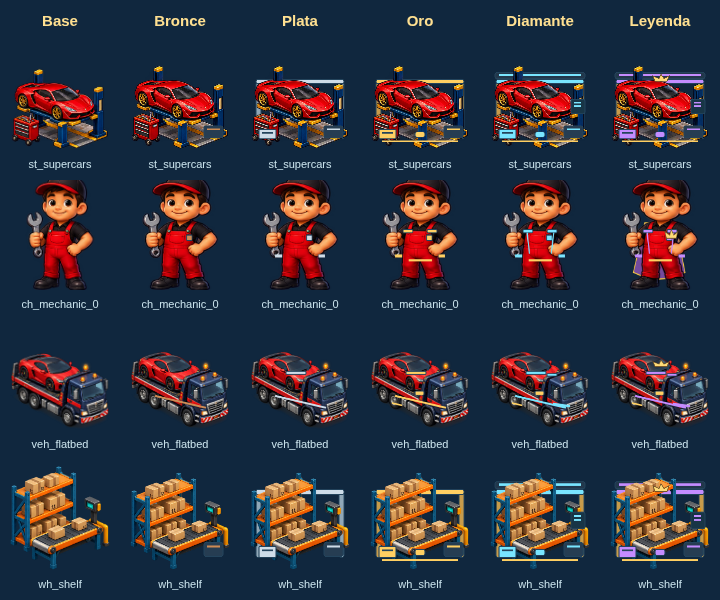
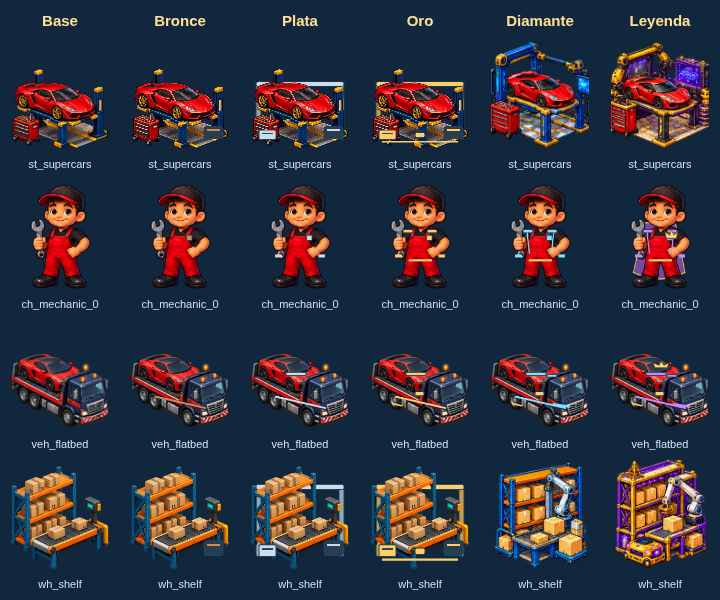
docs: close remaining art tasks and refresh visual and store review

diff --git a/docs/ART.md b/docs/ART.md
@@ -122,26 +122,26 @@ Mismo estilo común, con luz de playa soleada. Para la arena y las palmeras, añ
 
 ### Mecánicas de cada negocio (Madrid)
 
-Hoy son una tarjeta HTML con emojis encima de la barra de la cadena (`.tw-card` en `styles.css`, `src/ui/twistUi.ts`). Ideas para que luzcan en la escena: una furgoneta de «pedido urgente» con un reloj, un **crítico** con monóculo y libreta que se sienta en una mesa del restaurante (`ch_critic_0`, 44×60), un **cartel de «EN DIRECTO»** rojo que parpadea sobre el estudio de TikTok durante el directo viral y una pantalla de datos 🧠 en la agencia de IA. Iconos para la tarjeta: `ic_order`, `ic_critic`, `ic_hype`, `ic_research` (48×48).
+Las tarjetas usan el kit de iconos local. `TwistWorld` refleja las mecánicas existentes dentro del recinto con `veh_order`, `ch_critic_0`, `prop_broadcast` y `prop_research`: llegada/salida, rótulo y progreso. Es una proyección de solo lectura; las acciones siguen en las tarjetas. Tamaños e integración en «Ampliación final».
 
 ### «Mi vida»: personaje y objetos de lujo
 
-Hoy el personaje es un SVG sencillo (`src/ui/avatar.ts`) y los objetos son emojis. Para el arte propio, basta con añadir los PNG (y apuntarlos en `public/sprites/manifest.json`):
+El personaje y todos los objetos tienen arte propio de atlas. `src/ui/avatar.ts` conserva el SVG únicamente como respaldo y superpone la joya seleccionada sobre el avatar. Los PNG individuales del manifest siguen teniendo prioridad:
 
 | Clave | Tamaño | Qué es |
 | --- | --- | --- |
-| `avatar_<ropa>` | 240×344 (se ve a 120×172) | El personaje de cuerpo entero con cada ropa: `tracksuit` (chándal verde de rider con gorra), `hoodie`, `suit`, `designer` (traje granate con gafas de sol), `goldtux` (esmoquin negro con solapas doradas), `neonsuit` (exclusivo, rosa y cian con brillo). Mismo personaje y pose en todos, de frente, fondo transparente. Las joyas hoy se dibujan encima del SVG; con PNG, mejor una versión por joya más adelante |
+| `avatar_<ropa>` | 340×504 (se ve a 120×172) | El personaje de cuerpo entero con cada ropa: `tracksuit` (chándal verde de rider con gorra), `hoodie`, `suit`, `designer` (traje granate con gafas de sol), `goldtux` (esmoquin negro con solapas doradas), `neonsuit` (exclusivo, rosa y cian con brillo). Mismo personaje y pose en todos, de frente, fondo transparente. Las joyas se superponen sobre el avatar integrado |
 | `lux_<id>` | 96×96 | Icono de cada objeto (ids en `src/game/luxury.ts`): ropa, joyas, coches, casas, mascotas, yate, jet y cohete. Los de casa también se ven grandes de fondo (hasta 150×150): mejor como edificio con algo de suelo |
-| `luxcar_<id>` | 50×42 | El coche del personaje visto en isométrico para circular por la ciudad (como `car_0`). Hoy es su emoji con un halo dorado |
-| `ic_life` | 48×48 | Icono del botón «Mi vida» (hoy 🛍) |
+| `luxcar_<id>` | 50×42 | El coche del personaje visto en isométrico para circular por la ciudad (como `car_0`). Arte del vehículo seleccionado, con sombra y halo dorado |
+| `ic_life` | 48×48 | Icono vectorial local del botón «Mi vida» |
 
-**Halloween:** iconos `lux_vampire`, `lux_skullring`, `lux_hearse`, `lux_haunted`, `lux_pumpkin`, el personaje `avatar_vampire` (traje negro, capa roja, colmillos), `luxcar_hearse` y la calabaza `pumpkin` (40×40) para las plazas de la ciudad (hoy son emojis). Un fantasma `ghost` (64×64) para el botón flotante sería un buen extra.
+**Halloween integrado:** `lux_vampire`, `lux_skullring`, `lux_hearse`, `lux_haunted`, `lux_pumpkin`, `avatar_vampire`, `luxcar_hearse`, `pumpkin` y `ghost`. Véase el catálogo de familias entregadas.
 
 Ideas: que el fondo del escenario cambie con la casa (piso compartido, ático con vistas, villa con piscina, mansión, isla) y que los exclusivos tengan un brillo propio.
 
 ### Rangos de los puestos (bronce … leyenda)
 
-Cada parte de la cadena sube de rango en los niveles 10, 25, 50, 100 y 200 (`src/game/ranks.ts`). Hoy el rango se ve con efectos hechos por código (pedestal y brillo del color, medalla y destellos, en `src/scenes/rankFx.ts`). Para que además **el puesto, el trabajador y el vehículo cambien de aspecto**, basta con añadir PNG con estas claves (y apuntarlas en `public/sprites/manifest.json`). Si falta la de un rango, se usa la del rango anterior; si no hay ninguna, la normal. Mismo tamaño que la pieza base.
+Cada parte de la cadena sube de rango en los niveles 10, 25, 50, 100 y 200 (`src/game/ranks.ts`). Tiene medalla, pedestal y efectos existentes, más cambios estructurales compuestos sobre la pieza original. Los puestos Diamante/Leyenda de los 14 negocios tienen dibujos propios en `stations-premium.png`; los personajes y vehículos conservan sus poses y reciben detalles por composición. Un PNG individual puede sustituir cualquiera de estas variantes.
 
 | Clave | Qué es | Idea para el prompt |
 | --- | --- | --- |
@@ -152,11 +152,11 @@ Cada parte de la cadena sube de rango en los niveles 10, 25, 50, 100 y 200 (`src
 | `veh_forklift_r<n>`, `veh_van_r<n>` | Vehículos (fuera del almacén, que usa poses propias) | Same vehicle: new paint → chrome → gold livery → glowing diamond edition → legendary limousine-like |
 | `decor_<negocio>_2`, `decor_<negocio>_3` | Decoración extra del recinto con ★★ y ★★★ (se pone junto al edificio principal) | Small isometric props cluster on a transparent background: fountain, statue, neon sign… matching the business |
 
-Prioridad recomendada: medallas `rank_*` → puestos `st_*_r3` (oro) y `_r5` (leyenda) de los negocios iniciales (almacén, restaurante, food trucks) → personajes → vehículos.
+Medallas, puestos, personajes y vehículos están integrados; las claves de la tabla permiten sustituir cualquier variante sin cambiar la simulación.
 
 ### Dubái (tercera ciudad)
 
-Mismo estilo común, con luz cálida de desierto y toques dorados. Añade "Dubai luxury, desert sand, gold accents, glass towers" al prompt. **Ahora mismo Dubái usa arte provisional**: cada edificio toma la forma de uno existente (`BLD_SHAPE` en `src/art/catalog.ts`) y los puestos y personajes reutilizan los de Madrid y Miami (`BIZ_ART`). En cuanto exista el PNG de una clave, el juego lo usa sin tocar código. Cuando estén los edificios, borra `BLD_SHAPE`.
+Dubái está integrado con arte propio, luz cálida de desierto, arena, cristal y detalles dorados. `BLD_SHAPE` se eliminó; `BIZ_ART` y `LOOKS` registran los puestos y personajes propios. Los seis trabajadores tienen tres frames reales de 132×180 y apoyo común.
 
 | Clave | Tamaño lógico | Prompt |
 | --- | --- | --- |
@@ -183,63 +183,19 @@ Mismo estilo común, con luz cálida de desierto y toques dorados. Añade "Dubai
 | `ch_builder_0` | 44×60 | Chibi construction worker, orange vest, white helmet |
 | `exec_founder` | 64×64 | Portrait of a confident founder executive in a white suit with a gold pin, golden glowing frame, Dubai skyline behind (exclusive, must look special) |
 
-Para usar los puestos, objetos y personajes nuevos, cambia la línea del negocio en `BIZ_ART` (`src/art/catalog.ts`) y añade los personajes a `LOOKS`. El retrato `exec_founder` se usa solo con guardarlo (`execFace` en `src/ui/icons.ts`). Ideas de ambiente: la fuente de las plazas ya encaja con Dubái; faltan dunas al fondo, skyline y un brillo dorado en la barra del oro (`.wave.gold` en `styles.css`).
+Los puestos, productos, personajes y vehículos se resuelven mediante `BIZ_ART`; `execFace` utiliza `exec_founder`. El entorno incluye dunas, skyline, palmeras datileras, farolas doradas, pavimento propio y decoración específica de cada negocio. La barra del oro mantiene su estilo dorado.
 
-## Plan de mejora gráfica (para ChatGPT)
+## Estado del plan de mejora gráfica
 
-Revisión del juego actual, ordenada por impacto: lo que más se nota en pantalla va primero.
+El plan original está integrado: edificios y evoluciones de las tres ciudades, puestos y productos propios, personajes y movimiento, iconos de UI, moneda neutral, visitantes físicos, Halloween, Mi vida, rangos y marca. La ampliación final añade ciclos de Dubái, decoración específica de los 14 negocios, mecánicas físicas, puestos de alto rango personalizados y vegetación/mobiliario/pavimentos.
 
-### 1. Edificios de la ciudad (máximo impacto)
-Es lo primero que ve el jugador y lo que más "vende" en las capturas de la tienda. Hoy son cajas isométricas dibujadas por código, con un emoji encima en un recuadro blanco.
-- Genera los 9 `bld_*` y `bld_soon` con las tablas de arriba.
-- **Sin emoji encima:** el edificio tiene que reconocerse solo por su forma (un cartel de pasta, un aro de luz…). Ya hay PNG de Madrid; el recuadro del emoji solo sale con el arte por código.
-- ✅ **Enganche listo:** 3 versiones por edificio según sus puestos (`bld_x`, `bld_x_2`, `bld_x_3`; ver más abajo). Por ejemplo, un almacén pequeño que se vuelve nave logística y luego centro de distribución con camiones. Es la recompensa visual más fuerte de un tycoon: ver crecer lo que compras.
+Los efectos de dinero, hitos, noche, mar y celebraciones conservan la implementación existente. La carretera, geometría de parcelas, bordes y skyline siguen dibujándose por código: son geometría funcional, no assets provisionales que haya que duplicar en texturas.
 
-### 2. Suelo de la ciudad y del recinto
-El suelo son rombos de color plano: carreteras, césped, aceras y arena. Se ve vacío.
-- ✅ **Enganche listo** (ver más abajo): baldosas isométricas 88×44 (`tile_madrid_ground`, `tile_miami_ground`, carreteras, solares y suelo de cada recinto), con hasta 4 variantes por clave para que no se note la repetición.
-- El borde de tierra de la isla (`island_edge`) y el agua animada del mar.
-
-### 3. Personajes
-Son chibis sencillos y solo tienen 2 poses al caminar.
-- Haz primero `ch_*_0` de los 25 personajes, con el mismo prompt base para que tengan la misma cara y proporciones.
-- Después, las poses de caminar `_1` y `_2`.
-- Para Miami, los coches (`car_*`) también podrían ser descapotables o tener colores pastel.
-
-### 4. Puestos y objetos del recinto
-Son los 9 `st_*` y los 9 `item_*`. Se ven de cerca y mucho rato, así que merecen más detalle que los edificios.
-
-### 5. Iconos de la interfaz (hoy son emojis)
-Los emojis cambian según el móvil (Apple, Samsung, Google), se ven poco profesionales y no siguen el estilo del juego.
-- ✅ **Enganche listo** (ver más abajo): iconos PNG de 64×64. Por prioridad:
-  - dinero `ic_cash`, diamante `ic_gem`, estrella de franquicia `ic_star`;
-  - botones laterales: misiones, diario, ejecutivos, logros y ajustes (`ic_missions`, `ic_daily`, `ic_execs`, `ic_trophy`, `ic_settings`);
-  - barra inferior: ciudad, bolsa y mundo (`ic_city`, `ic_ipo`, `ic_world`);
-  - un icono por negocio (`ic_biz_<id>`), uno por estilo de vida (`ic_life_0` a `ic_life_9`) y uno por mejora de la Oficina central (`ic_office_<id>`);
-  - maletines: normal, oro y gratis (`chest_normal`, `chest_premium`, `chest_free`);
-  - banderas de ciudad (`flag_madrid`, `flag_miami`).
-- ✅ **Retratos de ejecutivos** (hoy son emojis): 8 caras de 96×96 (`exec_0` a `exec_7`). Sin marco: el juego ya pone el borde del color de la rareza.
-
-### 6. Interfaz (marcos y botones)
-Los paneles son rectángulos azul marino, limpios pero genéricos.
-- Pide a ChatGPT un **kit de interfaz** en el mismo estilo: marco de panel, botón dorado, botón verde de anuncio (con el icono ▶ de vídeo), barra de progreso y cabecera del dinero.
-- Se pueden aplicar como imágenes de fondo con CSS (`border-image`) sin tocar la lógica.
-
-### 7. Efectos y ambiente
-Todo esto es código más que sprites. ChatGPT solo tendría que dibujar la pieza:
-- monedas que vuelan hasta el contador al cobrar;
-- ciclo de día y noche con farolas y ventanas encendidas;
-- olas animadas, barcos y gaviotas en el mar;
-- banderines y destellos dorados cuando un negocio crece;
-- confeti y rayos de las celebraciones con sprites propios.
-
-### 8. Tienda y marca (antes de publicar)
-- Icono de la app (1024×1024), pantalla de carga (splash) y logotipo "Rider Millionaire".
-- 5 capturas para la tienda con textos grandes; se pueden montar sobre capturas reales del juego.
+La lista pendiente es de **validación de lanzamiento**, no de creación de estos assets: comprobar APK/recursos Android, rendimiento y lectura en un móvil físico de gama media y revisión de la ficha en Play Console.
 
 ### Enganches ya preparados en el código
 
-Estas piezas ya se pueden sustituir por PNG igual que el resto: se dejan en `public/sprites/` y se añaden a `manifest.json`. Mientras no exista el PNG, el juego sigue con el emoji o el dibujo por código.
+Estas piezas ya se pueden sustituir por PNG igual que el resto: se dejan en `public/sprites/` y se añaden a `manifest.json`. Si falta una pieza, el juego utiliza el atlas o respaldo vectorial/procedural correspondiente.
 
 **Edificios (`bld_*`):** al cargar se recorta solo el margen transparente y se escalan para que la base ocupe la parcela. No hace falta encuadrarlos con precisión, solo que la base (el rombo de suelo) sea lo más ancho del dibujo.
 
@@ -604,7 +560,7 @@ Esta sección describe el arte integrado y sustituye las descripciones históric
 | `bld_{supercars,hotel,safari,souk,tower}_{1,2,3}` | Ancho 172; alturas base 164/260/140/170/300, +24 por evolución; ajustadas a parcela 2:1 | `dubai-buildings.png`, 1536×1024. Quince edificios propios: concesionario, hotel, safari, zoco y torre. Piedra clara, arena, cristal cian, acentos dorados; luz superior izquierda |
 | `st_{supercars,hotel,safari,souk,tower}` | 100×86 | `dubai-details.png`, 1448×1086. Taller, suite, tienda beduina, banco de joyero y estructura de obra |
 | `item_{carkey,bell,camel,ring,beam}` | 26×26 | Mismo atlas: objetos de producción propios |
-| `ch_{mechanic,valet,butler,guide,goldsmith,builder}_0` | 44×60 | Mismo atlas: roles propios. Las poses de desplazamiento reutilizan el frame quieto, como admite el contrato existente; no son ciclos nuevos de tres dibujos |
+| `ch_{mechanic,valet,butler,guide,goldsmith,builder}_0` | 44×60 | Mismo atlas: roles propios. Las tres poses reales tienen PNG individuales que prevalecen sobre este frame de referencia; véase la ampliación final |
 | `avatar_{tracksuit,hoodie,suit,designer,goldtux,neonsuit,vampire,founder}` | Recorte uniforme 340×504; mostrado a 120×172 | `avatars.png`, 1536×1024. Misma cara, pose y proporciones; siete vestuarios y fundador. Las joyas seleccionadas se superponen en HTML |
 | `exec_founder` | 64×64 | Retrato recortado del fundador en `avatars.png`; marco por rareza existente |
 | `lux_{digital,luxwatch,goldchain,diamondring,crown,deliverybike,scooter,motorbike,sportscar,supercar,limo,goldcar,parents,flat,penthouse,villa,mansion,island,hearse,haunted}` | Iconos de tarjeta 76×76; viviendas también en el escenario de Mi vida | `luxury.png`, 1536×1024. Relojes, joyas, vehículos y casas originales, estilo juguete 3D |
@@ -615,9 +571,9 @@ Esta sección describe el arte integrado y sustituye las descripciones históric
 | `veh_supply`, `ch_vip_0` | 96×78 / 48×68 | Mismo atlas. Visitantes físicos con entrada, halo, sombra, interacción y salida; objetivo HTML accesible de 44 px sigue su posición. No cambia ninguna oferta ni recompensa |
 | `veh_safari`, `veh_crane`, `veh_luggage`, `veh_flatbed`, `veh_goldvan` | 62×48, 68×60 y 68×54 | `vehicles.png`, 1774×887. Vehículos exclusivos de Dubái |
 | `car_miami_0`, `car_miami_1`, `dubai_lamp` | 44×34 / 22×60 | Mismo atlas. Tráfico pastel de Miami y farolas de Dubái |
-| `dubai_planter`, `miami_plaza`, `decor_<negocio>_{2,3}` | 58×76, 66×80 | Atlas extras: jardineras doradas y decoración costera; alias por ciudad para recintos. Dunas y skyline de Dubái son geometría agrupada, no otra textura grande |
+| `dubai_planter`, `miami_plaza`, `decor_<negocio>_{2,3}` | 58×76, 66×80 | Atlas extras: jardineras doradas y decoración costera; los alias iniciales de recintos se sustituyeron por 28 decoraciones propias en `business-decor.png`. Dunas y skyline de Dubái son geometría agrupada, no otra textura grande |
 | `rank_1`…`rank_5` | 24×24; PNG 96×96 + SVG | `public/sprites/`. Bronce, plata, oro, diamante y leyenda, pictogramas propios sin letras |
-| `<pieza>_r1`…`_r5`, `ch_<rol>_r<n>_<pose>` | Igual a base; textura ≤300×258 | `src/art/rankArt.ts`. Composición diferida sobre el arte real: herramientas, soportes, marquesinas, terminales, herrajes, insignias y uniformes. No es un recoloreado global ni cientos de PNG independientes. Incluye las poses propias del almacén y restaurante. Un PNG específico puede sustituirla |
+| `<pieza>_r1`…`_r5`, `ch_<rol>_r<n>_<pose>` | Igual a base; textura ≤300×258 | `src/art/rankArt.ts`. Composición diferida sobre el arte real: herramientas, soportes, marquesinas, terminales, herrajes, insignias y uniformes. No es un recoloreado global ni cientos de PNG independientes. Incluye las poses propias del almacén y restaurante. Los puestos r4/r5 se sustituyen con el atlas premium; un PNG específico conserva prioridad |
 | `coin`, `ic_wheel`, `ic_hand`, `ic_manager`, `ic_construction` | 20×20, 48×48, 26×28, 18×18, 32×24 | SVG original y PNG 96×96 en `public/sprites/`; moneda con estrella neutral. Los importes siguen usando €/$ mediante `money()` |
 | UI: categorías, ciudades, banderas, oficina, misiones, eventos, rival, invitaciones, nube y controles | Canvas vectorial 48×48; inline 1 em | `src/ui/visualIcons.ts` y `icons.ts`; conserva gemas, cofres y ejecutivos PNG existentes. Iconos de negocio usan sus edificios. Sustituye glifos decorativos en etiquetas traducidas sin cambiar cifras ni nombres escritos por jugadores |
 
@@ -651,6 +607,46 @@ python scripts/register-visual-atlases.py       # Pillow, NumPy y SciPy
 python scripts/build-brand.py                  # fontTools con soporte Brotli
 ```
 
+Para renovar solo las capturas comerciales sin repetir la suite: `VISUAL_OUTPUT=artifacts/store npm run capture:visuals -- --store-only`, seguido de `npm run brand:store`.
+
 Los exportadores de navegador requieren Chromium instalado (`CHROMIUM_PATH`). Los scripts Python son herramientas opcionales de edición; el juego consume los archivos entregados y no los necesita. `artifacts/` está ignorado. Comparación reproducible en `docs/visual-review/`: antes de esta rama, commit `8b0f8a2`, y después, misma partida preparada, idioma y resolución.
 
-Verificaciones: 217 tests y build de producción correctos; cobertura de todas las claves de lujo y Dubái, límites reales de los atlas, 110 comprobaciones de navegador, compra/equipamiento, visitantes, rangos, ausencia de desbordamientos y errores JS, y movimiento reducido. Se conserva Madrid y sus tres frames de caminar originales 132×180 con el mismo apoyo. Se mantienen los efectos de monedas, rangos, colecciones y celebraciones existentes. La prueba en móvil físico de gama media y la revisión nativa siguen siendo necesarias antes de publicar: Chromium con renderizado software no permite certificar esos resultados.
+Verificaciones: 221 tests y build de producción correctos; cobertura de todas las claves de lujo y Dubái, límites reales de los atlas, 122 comprobaciones de navegador, compra/equipamiento, visitantes, rangos, ausencia de desbordamientos y errores JS, y movimiento reducido. Se conserva Madrid y sus tres frames de caminar originales 132×180 con el mismo apoyo. Se mantienen los efectos de monedas, rangos, colecciones y celebraciones existentes. La prueba en móvil físico de gama media y la revisión nativa siguen siendo necesarias antes de publicar: Chromium con renderizado software no permite certificar esos resultados.
+
+## Ampliación final — animación, entorno y mecánicas
+
+La revisión posterior completa las cinco mejoras acordadas. Se añaden **18 PNG de animación** y **74 frames registrados en tres atlas** (algunos sustituyen claves existentes), manteniendo el resto del arte. Sin modificaciones en `src/game/*`.
+
+| Familia y claves | Tamaño lógico / fuente | Uso e integración |
+| --- | --- | --- |
+| `ch_{mechanic,valet,butler,guide,goldsmith,builder}_{0,1,2}` | 44×60; cada PNG 132×180 | Tres poses reales: quieto, paso izquierdo y paso derecho. Lienzo y apoyo comunes; cuerpo dentro de y=8…177. `public/sprites/ch_*.png` y manifest; prevalecen sobre los alias del atlas anterior. Se conservan uniformes y herramientas en la misma mano |
+| `decor_<negocio>_{2,3}` para los 14 negocios | 66×80, ajustado a proporción; `business-decor.png`, 1659×948 | 28 clusters propios: logística, terraza, grabación, hologramas, picnic, surf, marina, piscina, terminales cripto, exposición de coches, fuente, safari, joyería y obra. La categoría 3 añade arquitectura y equipamiento, no solo color. Se integran en el enganche `drawTierDecor` existente |
+| `st_<negocio>_r{4,5}` y `wh_shelf_r{4,5}` | Misma caja lógica del puesto base; `stations-premium.png`, 1482×1061 | 28 puestos Diamante/Leyenda más dos referencias del almacén: maquinaria y estructura específicas, cian/cromo y oro/violeta. `rankedKey` encuentra primero el atlas; los demás rangos, trabajadores y vehículos siguen la composición que conserva sus poses |
+| `veh_order`, `ch_critic_0`, `prop_broadcast`, `prop_research` | 82×60, 66×66, 74×68, 78×70 | `world-details.png`, 1536×1024. Pedido en furgoneta, crítico sentado, equipo con lámpara roja de directo y monitor holográfico. `TwistWorld` muestra/retira la pieza, rótulo traducido y progreso sobre el sprite, evitando la fila de controles. Lectura del estado con `twistPresentation`, sin acciones económicas |
+| `tree_0`, `tree_1`, `palm`, `bush`, `bench`, `lamp_post`, `recycling_bin`, `desert_palm` | 56×72, 48×76, 60×84, 36×24, 44×36, 16×56, 26×40, 60×84 | Mismo atlas. Vegetación y mobiliario original que reemplazan los respaldos procedurales; palmera datilera propia de Dubái |
+| `tile_{madrid,miami,dubai}_ground`, `tile_path` | Ancho 88; altura según proporción del rombo 2:1 y grosor | Mismo atlas. Piedra urbana, mosaico tropical y piedra clara con incrustaciones doradas. `placeTile` ahora admite frames compartidos de atlas además de PNG individuales. Carreteras y geometría funcional siguen en código |
+
+Registro exacto: `src/art/completionFrames.ts` y los tres JSON del directorio generado. Las fuentes de animación y sus recortes están en `public/sprites/source/dubai-walk.{png,json}` y no se cargan en el juego. Los PNG normalizados tienen resolución fija y ancla común; no se modifica la imagen fuente. Los atlas permanecen por debajo de 2048 px; las celdas premium no superan 384 px. Las variantes compuestas siguen limitadas a 300×258 y se crean al usarse. No se añaden emisores de partículas permanentes.
+
+### Prompts y reproducción
+
+Dirección común: **production-ready original premium mobile idle tycoon, polished toy-like 3D, clean navy outlines, warm top-left light, transparent RGBA, isolated equal grid cells with generous gutters, no text, no real logos**.
+
+- **Animación, 6×3:** reference the six existing workers, keep recognizable faces/uniforms/equipment; column order mechanic, valet, butler, desert guide, goldsmith, builder; rows idle, left-leg step, right-leg step. Same facing, scale and ground anchor. Edición de continuidad: correct bottom-row mechanic wrench and builder blueprint to the same anatomical hand/arm as the first two rows; do not mirror the characters.
+- **Decoración, 7×4:** rows 1–2 tier2 of warehouse, restaurant, video studio, AI lab, food truck, beach club, marina, real estate, crypto, supercar showroom, hotel, safari, gold souk, construction tower; rows 3–4 matching tier3 richer architecture/equipment. Madrid brick/teal, Miami coral/turquoise, Dubai cream/gold.
+- **Puestos premium, 7×4:** preserve reference station equipment and isometric angle; first 14 cells diamond chrome/cyan, next 14 legendary gold/violet; warehouse robotic picker, kitchen extraction hood, video multi-camera editing, AI holo servers, extendable food-truck kitchen, glass-canopy tiki bar, yacht gangway, property model, trading terminal, diagnostics gantry, hotel canopy, safari shade rig, precision goldsmith, automated construction lifting. Structural upgrades, not global recolor.
+- **Entorno, 4×4:** express parcel van with clock, seated burgundy critic with monocle/notebook/table, red broadcast lamp and play symbol, holographic server monitor; two urban trees, tropical palm, flowering shrub; bench, street lamp, recycling bin, date palm; four understated diamond pavement tiles.
+
+```sh
+python scripts/register-completion-atlases.py
+python scripts/register-worker-poses.py
+node scripts/export-worker-poses.mjs
+npm test
+npm run build
+npm run capture:visuals
+node scripts/capture-ranks.mjs                  # Vite en 5173
+```
+
+Python necesita Pillow/NumPy/SciPy; las exportaciones usan Chromium (`CHROMIUM_PATH`). Solo son necesarias para editar/reproducir, no para ejecutar el juego. La captura automatizada valida los 18 apoyos, las cuatro piezas físicas, las variantes de rango y la UI en español/inglés a 320/390/560 px, con Supabase simulado. Las pruebas comprueban que la presentación no cambia plazos, aceptación o recompensas. Pendiente únicamente la validación nativa/física indicada arriba.
+
+Limpieza final del atlas de decoración: se sustituyeron los símbolos de criptomonedas reconocibles por una moneda con estrella y nodos de red originales, y se pidieron frontales de joyería sin letras. Las fuentes PNG y recortes entregados son los utilizados en la validación final.

diff --git a/docs/visual-review/PR_DESCRIPTION.md b/docs/visual-review/PR_DESCRIPTION.md
@@ -8,10 +8,12 @@ El juego tenía arte provisional de Dubái y Mi vida, rangos sin variantes de la
 - Visitantes: camión y VIP físicos, entrada/salida, sombra, halo e interacción; una pequeña etiqueta accesible sigue al actor.
 - Miami: se conserva su arte existente y se completa el tráfico pastel y decoración costera.
 - Marca: logos claro/oscuro, iconos 512/1024, carga web, iconos Android en cinco densidades, splash, gráfico Play 1024×500 y cinco capturas reales 1080×1920.
-- Documentación y scripts de exportación/captura reproducibles.
+- Ampliación final: 18 frames reales de caminar en Dubái, 28 decoraciones específicas por negocio/evolución, 28 puestos Diamante/Leyenda personalizados y vegetación, mobiliario y pavimentos propios.
+- Mecánicas físicas: furgoneta de pedidos urgentes, crítico sentado, equipo de directo y monitor holográfico; proyección de solo lectura sin acciones económicas nuevas.
+- Documentación antigua corregida y scripts de exportación/captura reproducibles.
 
 ### Assets y comparaciones
-119 claves comparten seis nuevos atlas RGBA; ningún atlas supera 1774 px. Las fuentes, tamaños, prompts de dirección, alias y puntos de integración se documentan en `docs/ART.md`.
+La primera entrega aporta 119 claves en seis atlas; la ampliación añade 74 frames en tres atlas y 18 PNG de animación. Ningún atlas supera 1774 px. Las fuentes, tamaños, prompts de dirección, alias y puntos de integración se documentan en `docs/ART.md`.
 
 [Comparación antes/después y contacto de rangos](https://github.com/carlosconesa14-design/foco-landing/blob/codex/complete-visual-overhaul/docs/visual-review/README.md)
 
@@ -19,12 +21,12 @@ El juego tenía arte provisional de Dubái y Mi vida, rangos sin variantes de la
 ![Mi vida terminada](https://raw.githubusercontent.com/carlosconesa14-design/foco-landing/codex/complete-visual-overhaul/docs/visual-review/after-life.png)
 
 ### Validación
-- `npm test`: 217 tests, 27 archivos, correctos.
+- `npm test`: 221 tests, 28 archivos, correctos.
 - `npm run build`: TypeScript y Vite correctos; permanece el aviso del bundle de Phaser >500 kB.
-- `npm run capture:visuals`: 110 comprobaciones sin errores JS/consola; español/inglés a 320, 390×844 y 560 px, 14 negocios y paneles, compra/equipamiento, visitantes, rangos y movimiento reducido.
-- Captura final rápida: 20 comprobaciones, incluido cobro real del fantasma mediante su modal.
+- `npm run capture:visuals`: 122 comprobaciones sin errores JS/consola; español/inglés a 320, 390×844 y 560 px, 14 negocios y paneles, compra/equipamiento, visitantes, rangos y movimiento reducido.
+- Captura final rápida: 25 comprobaciones, incluidos los 18 apoyos de caminar, las cuatro mecánicas físicas y cobro real del fantasma mediante su modal.
 - Smoke de producción: canvas, carga de assets y menú correctos, sin errores de navegador.
 - `src/game/*` sin cambios; no se modifica el balance.
 
 ### Límites de la validación
-Las capturas usan una partida local preparada y Supabase simulado: no envían cuentas, guardados ni analítica. No validan anuncios reales, cuentas o servidor. El APK no se ha compilado aquí; quedan la revisión de recursos nativos y rendimiento en un Android físico de gama media, y la revisión de material en Play Console antes de publicar. Los nuevos trabajadores de Dubái usan la pose quieta al caminar según el fallback existente; no se entrega un nuevo ciclo de tres dibujos por rol.
+Las capturas usan una partida local preparada y Supabase simulado: no envían cuentas, guardados ni analítica. No validan anuncios reales, cuentas o servidor. El APK no se ha compilado aquí; quedan la revisión de recursos nativos y rendimiento en un Android físico de gama media, y la revisión de material en Play Console antes de publicar. Los seis trabajadores de Dubái tienen ciclos reales de tres frames a 132×180 y apoyo común.

diff --git a/docs/ESTADO.md b/docs/ESTADO.md
@@ -3,7 +3,7 @@
 **Rider Millionaire: Idle Tycoon.** Para retomar el trabajo sin tener que leer conversaciones antiguas. Última actualización: 2 de octubre de 2026.
 
 ## En una frase
-Es un idle tycoon para móvil, publicado como **beta web** en https://carlosconesa14-design.github.io/foco-landing/ (el juego, en `/jugar/`). Está listo para Google Play: solo faltan las cuentas, los datos legales y el material gráfico. Gana dinero con **anuncios bonificados** (AdMob) y compras dentro de la app.
+Es un idle tycoon para móvil, publicado como **beta web** en https://carlosconesa14-design.github.io/foco-landing/ (el juego, en `/jugar/`). Tiene el material gráfico preparado para Google Play; faltan las cuentas, los datos legales y la validación nativa antes de publicar. Gana dinero con **anuncios bonificados** (AdMob) y compras dentro de la app.
 
 ## Quién hace qué
 - **Claude:** lógica, economía, servidor, monetización, documentación y comprobaciones.
@@ -62,11 +62,11 @@ Es un idle tycoon para móvil, publicado como **beta web** en https://carloscone
 
 ## Bloque visual completado por ChatGPT/Codex
 
-Dubái tiene sus quince evoluciones de edificios, puestos, productos, roles, vehículos, desierto, skyline y fundador. Mi vida incluye todas las ropas, lujo, coches y exclusivos de Halloween. Rangos con cambios estructurales sobre el arte base, medallas propias, visitantes físicos, moneda neutral, kit de iconos coherente, decoración de Miami y revisión responsive en español/inglés a 320/390/560 px. Madrid conserva su arte y animaciones existentes.
+Dubái tiene sus quince evoluciones de edificios, puestos, productos, roles, vehículos, desierto, skyline y fundador. Mi vida incluye todas las ropas, lujo, coches y exclusivos de Halloween. Rangos con cambios estructurales sobre el arte base, medallas propias, visitantes físicos, moneda neutral, kit de iconos coherente, decoración de Miami y revisión responsive en español/inglés a 320/390/560 px. Madrid conserva su arte y animaciones existentes. La ampliación final añade los 18 frames reales de Dubái, 28 decoraciones por negocio, puestos Diamante/Leyenda personalizados, cuatro mecánicas físicas y vegetación, mobiliario y pavimentos propios.
 
 Marca: logos claro/oscuro, iconos web/Android, carga y splash, gráfico de Google Play y cinco capturas reales de tienda. Catálogo, herramientas y límites documentados en [`ART.md`](ART.md), «Cierre visual». La economía, guardado y frecuencia/recompensa de las ofertas permanecen intactos (`src/game/*` sin cambios).
 
-Validación local: 217 tests correctos, build de producción correcto y 110 comprobaciones automatizadas de Chromium, más compra/equipamiento y fantasma. **Pendiente antes de publicar:** probar rendimiento en Android físico de gama media, compilar/verificar recursos nativos y revisar el material en Play Console. La prueba visual simula Supabase; no valida cuentas, anuncios reales ni servidor.
+Validación local: 221 tests correctos, build de producción correcto y 122 comprobaciones automatizadas de Chromium, incluidos compra/equipamiento, fantasma, mecánicas físicas y apoyos de animación. **Pendiente antes de publicar:** probar rendimiento en Android físico de gama media, compilar/verificar recursos nativos y revisar el material en Play Console. La prueba visual simula Supabase; no valida cuentas, anuncios reales ni servidor.
 
 ## Próximos pasos (Claude)
 0. ~~Auditoría de seguridad y anti-trampas~~ ✅ ([`SEGURIDAD.md`](SEGURIDAD.md)). Pendiente: Play Integrity y verificar compras en el servidor, cuando existan las cuentas de Google.

diff --git a/docs/visual-review/README.md b/docs/visual-review/README.md
@@ -12,6 +12,18 @@ Las comparaciones usan la misma partida local preparada, español, 390×844 y fe
 
 ![Suministros](supply-truck.png) ![Cliente VIP](vip.png)
 
-`report.json` recoge 110 comprobaciones de Chromium: paneles, 14 negocios, tres ciudades, dos idiomas, 320/390/560 px, visitantes, compras/equipamiento, límites de texturas por rango y movimiento reducido. No certifica rendimiento físico ni integración del servidor. Una prueba adicional comprueba que el fantasma concede los caramelos mediante su modal existente.
+`report.json` recoge 122 comprobaciones de Chromium: paneles, 14 negocios, tres ciudades, dos idiomas, 320/390/560 px, visitantes, compras/equipamiento, límites de texturas por rango y movimiento reducido. No certifica rendimiento físico ni integración del servidor. También comprueba el apoyo de los 18 frames de animación, las cuatro mecánicas físicas y el cobro del fantasma mediante su modal existente.
 
 Las capturas de tienda 1080×1920 y el gráfico 1024×500 están en `public/brand/store/`. Receta: `VISUAL_OUTPUT=artifacts/store npm run capture:visuals -- --store`, seguida de `npm run brand:store`. Para repetir el contacto de rangos: Vite en 5173 y `node scripts/capture-ranks.mjs`.
+
+La ampliación entrega ciclos reales y puestos premium específicos:
+
+![Tres poses por trabajador](dubai-walk.png)
+
+![Pedido urgente](urgent-order.png) ![Crítico](critic.png)
+
+![Directo](broadcast.png) ![Investigación](research.png)
+
+Las tarjetas existentes conservan sus botones y recompensas; los sprites reflejan su estado. No se modifican los sistemas económicos.
+
+`final-report.json` recoge la pasada final de 25 comprobaciones después de la limpieza del atlas de decoración.
